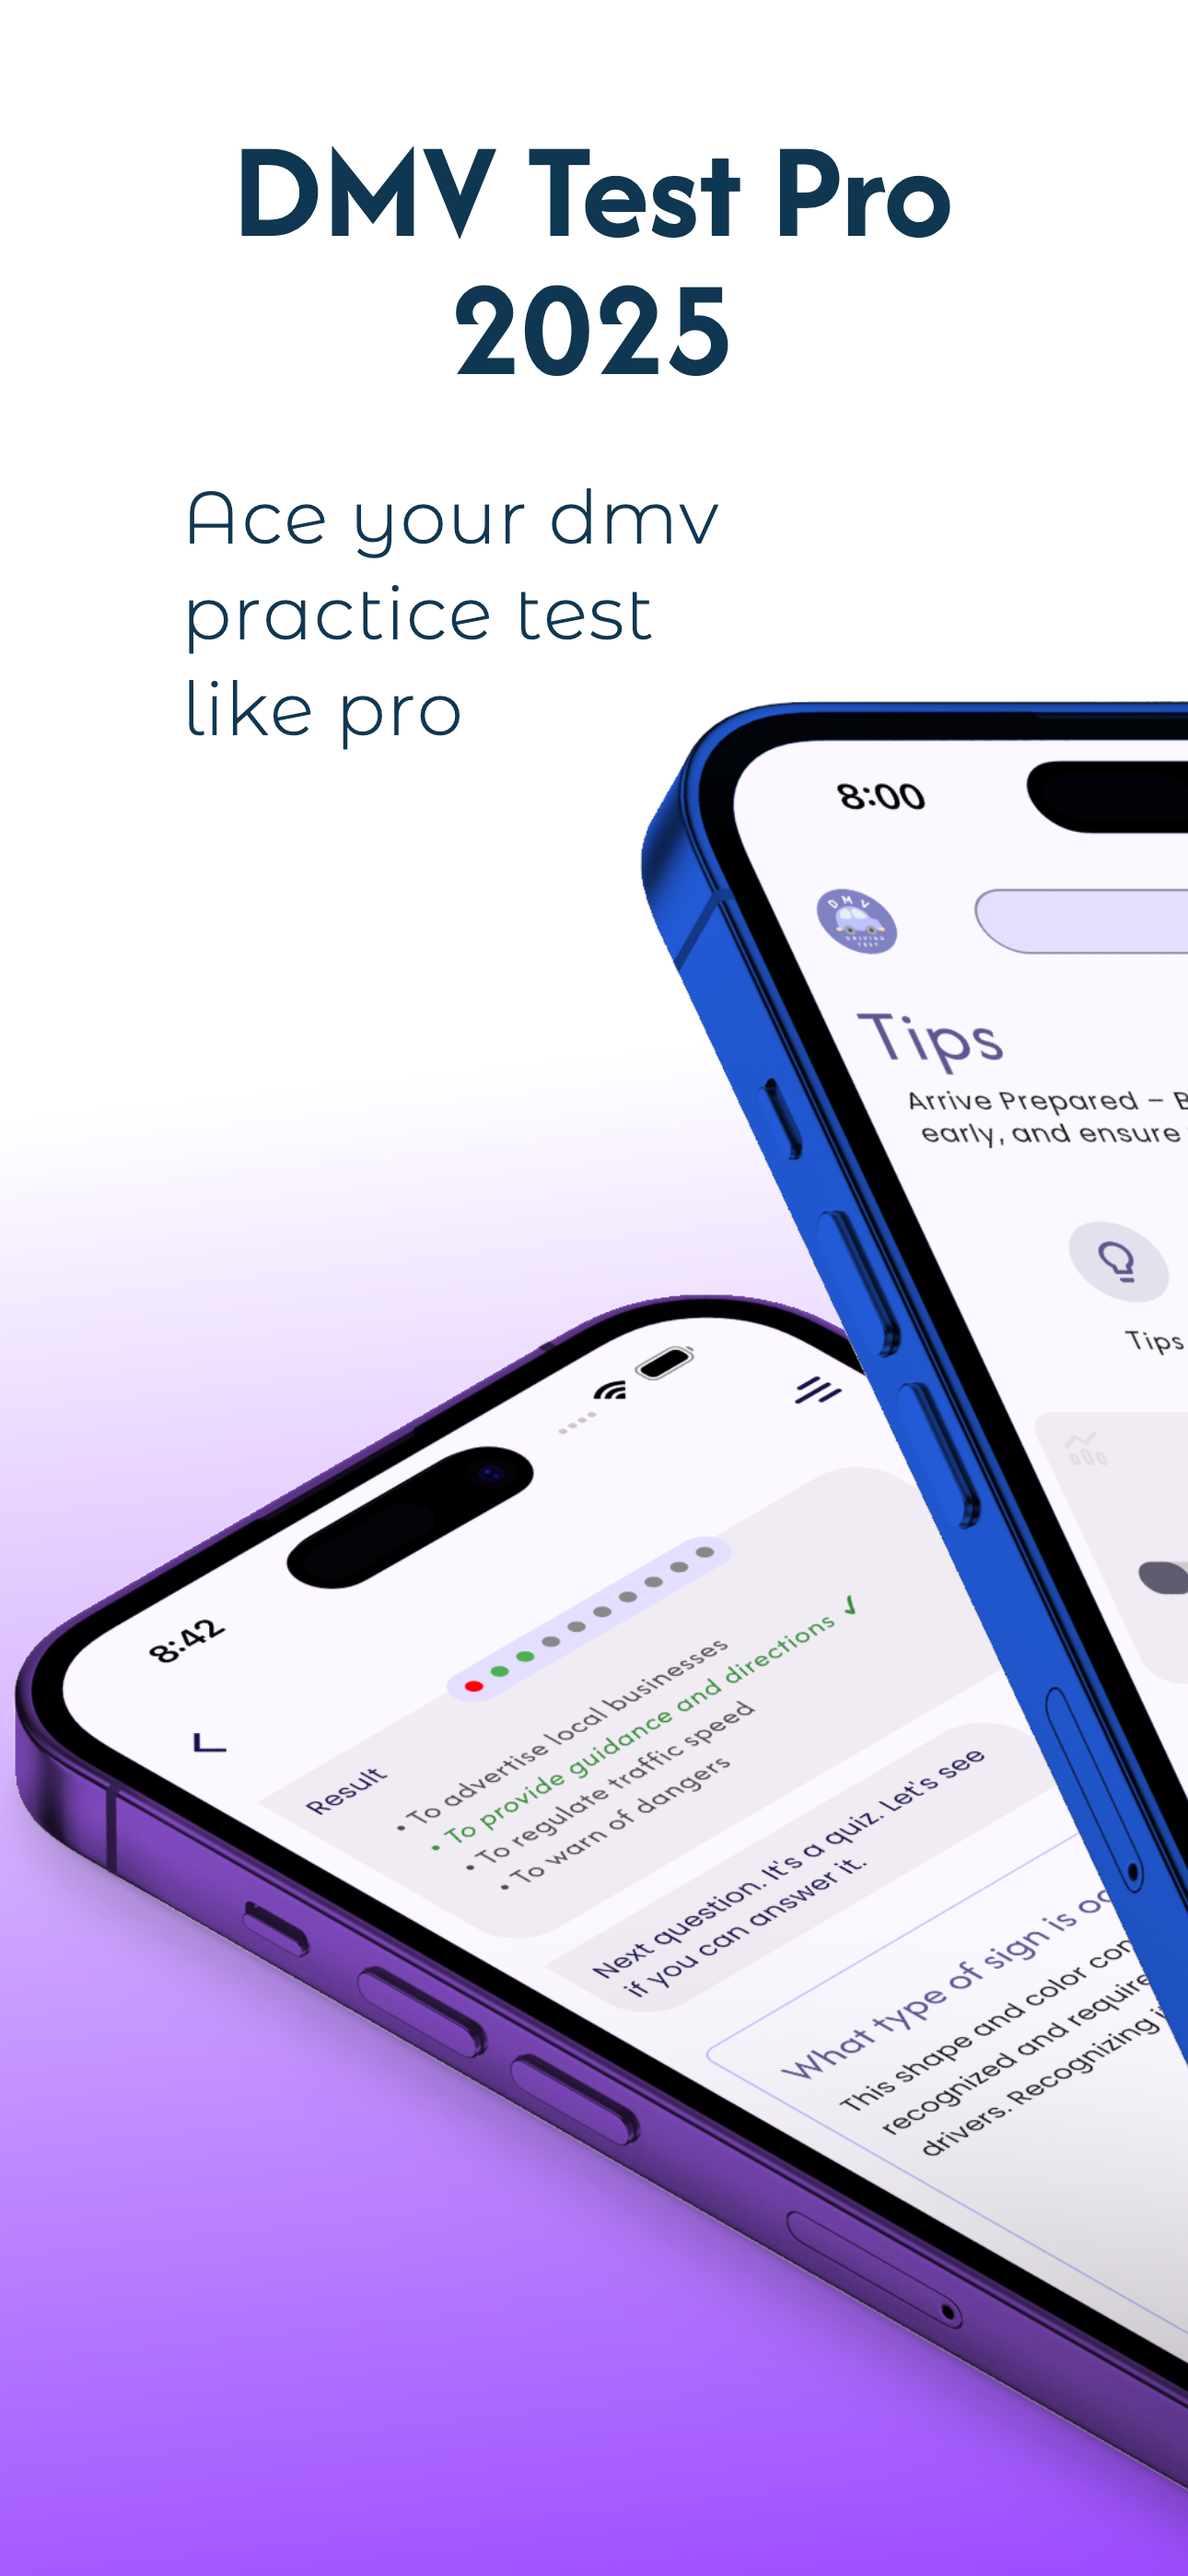
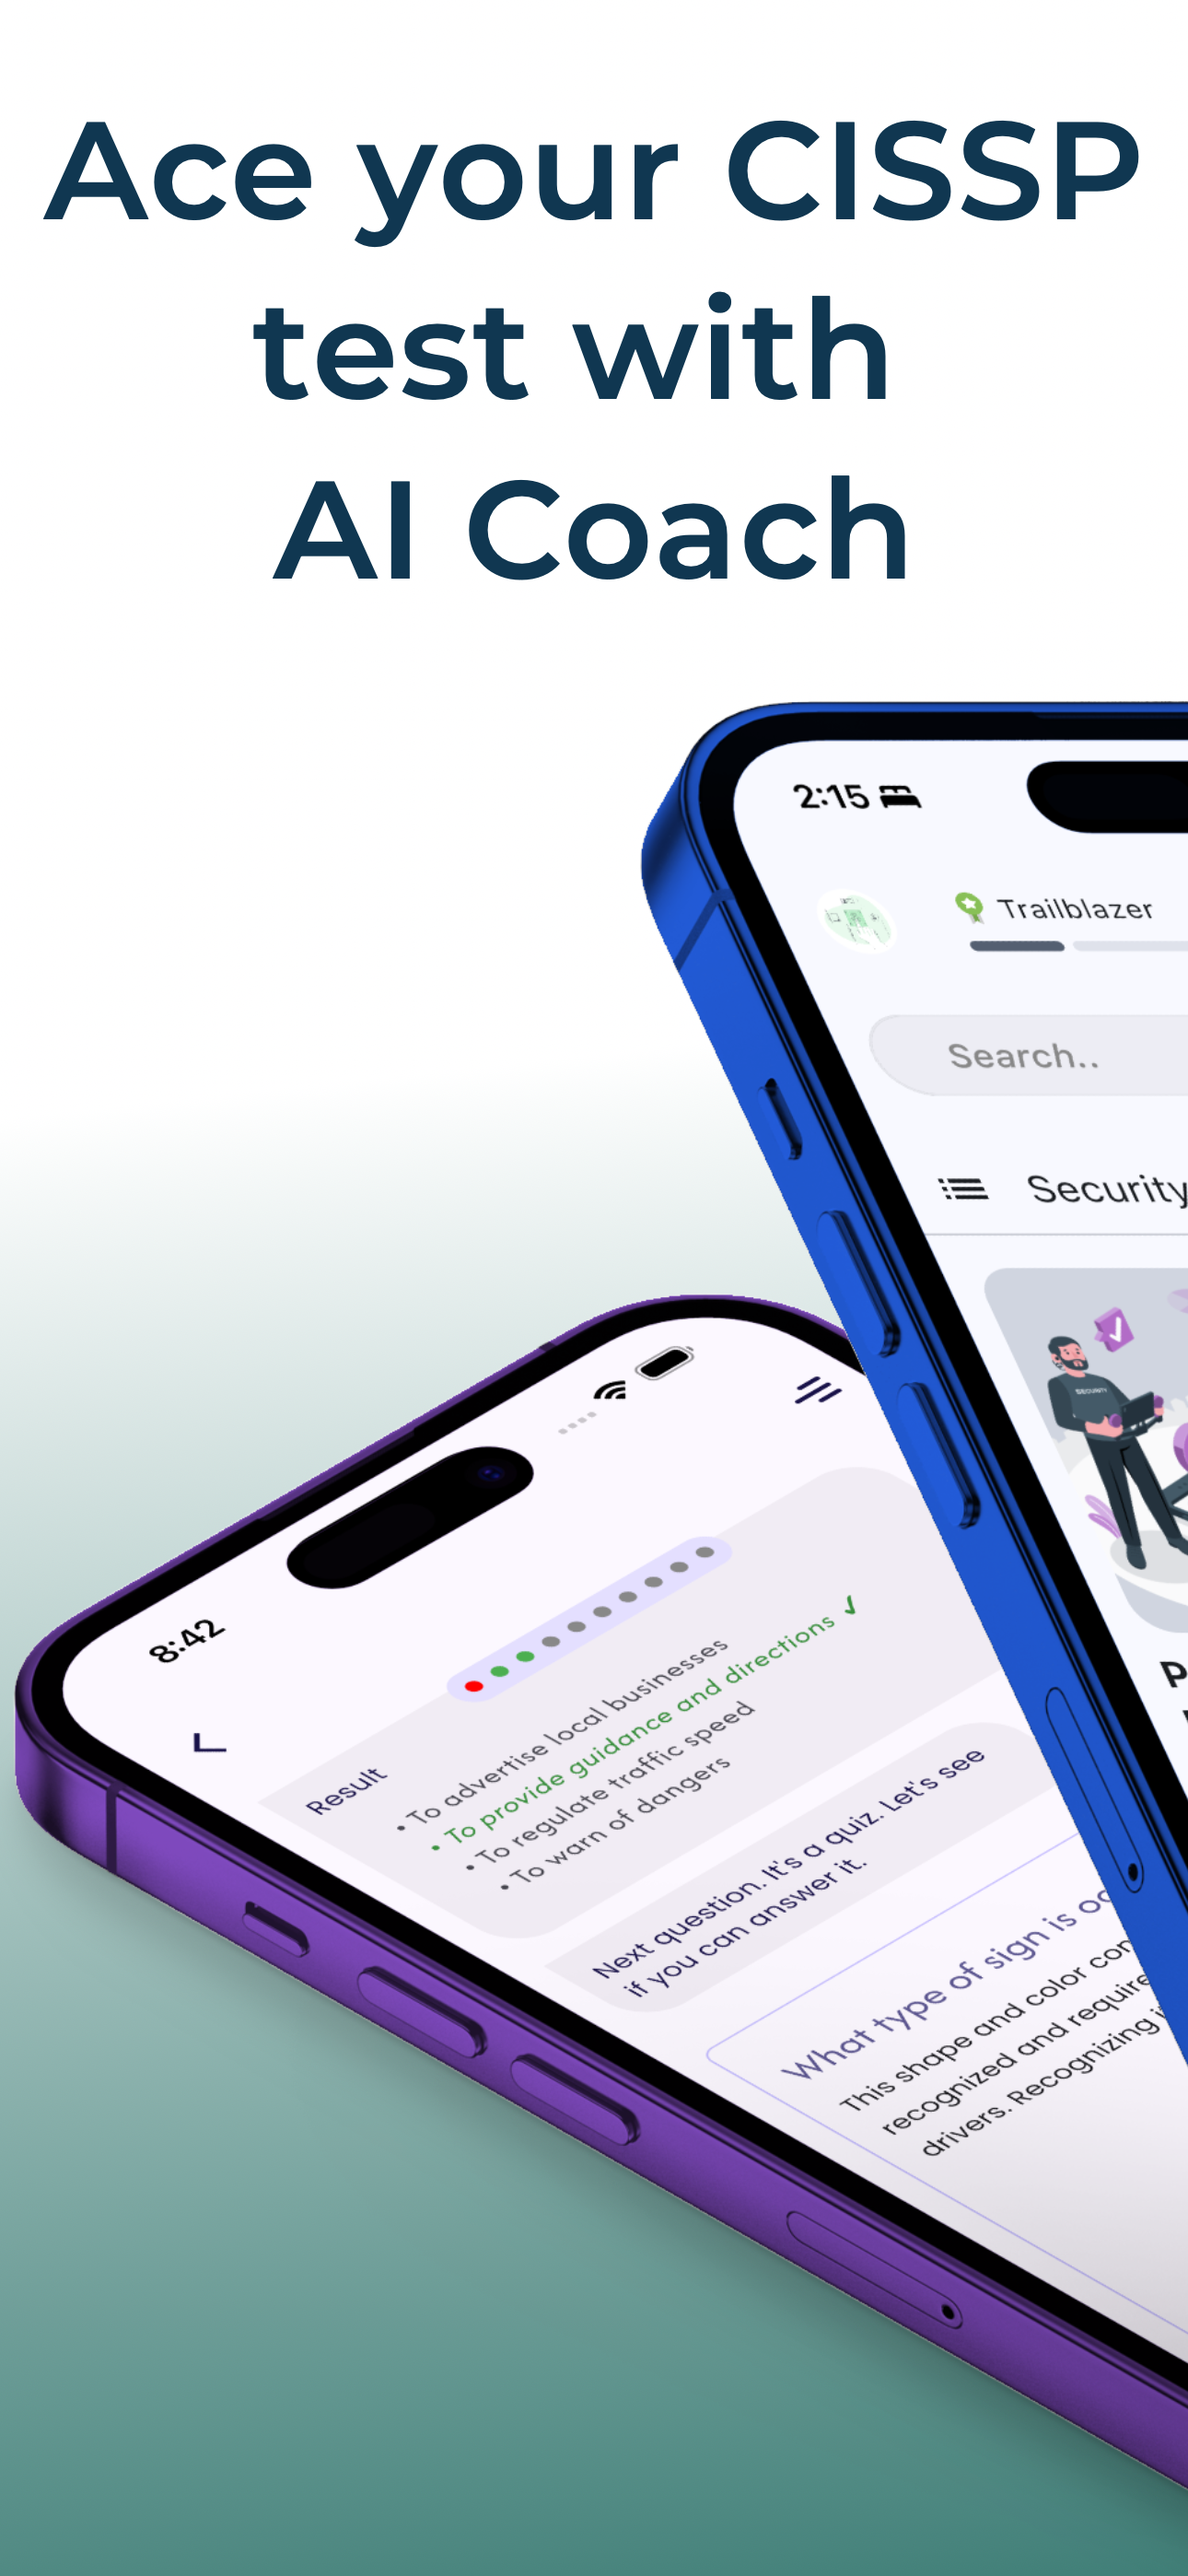
Initial commit

diff --git a/index.html b/index.html
@@ -4,7 +4,7 @@
   <meta charset="UTF-8">
   <link rel="icon" href="favicon.ico" type="image/x-icon">
   <meta name="viewport" content="width=device-width, initial-scale=1.0">
-  <title>DMV Driving Test Pro</title>
+  <title>CISSP Secure Test Prep 2025</title>
   <link rel="preconnect" href="https://fonts.googleapis.com">
   <link rel="preconnect" href="https://fonts.gstatic.com" crossorigin>
   <link
@@ -248,15 +248,15 @@
 </head>
 <body>
 <section class="hero">
-  <img src="img/driving_test_logo.png" alt="DMV Test Pro Logo" class="logo">
+  <img src="img/cissp_logo.png" alt="CISSP Logo" class="logo">
   <h1 class="gradient-text" style="font-size: 3.5rem; margin-bottom: 1.5rem;">
-    Master Driving Exam,<br>Conquer the DMV Test
+    Conquer the CISSP Test
   </h1>
   <p style="font-size: 1.25rem; margin-bottom: 3rem; opacity: 0.9;">
     Interactive learning platform with AI-powered practice exams and real-time analytics
   </p>
   <div class="store-badges">
-    <a href="https://apps.apple.com/app/app/dmv-test-pro-2025/id6742561500" target="_blank">
+    <a href="https://apps.apple.com/us/app/cissp-secure-test-prep-2025/id6743873719" target="_blank">
       <img src="https://developer.apple.com/app-store/marketing/guidelines/images/badge-download-on-the-app-store.svg"
            alt="Download on the App Store">
     </a>
@@ -305,7 +305,7 @@
   <h2 style="font-size: 2.5rem; margin-bottom: 1.5rem;">Ready to Ace Your Exam?</h2>
   <p style="margin-bottom: 3rem; opacity: 0.9;">Join 15,000+ successful permit holders</p>
   <div class="store-badges">
-    <a href="https://apps.apple.com/us/app/dmv-test-pro-2025/id6742561500" target="_blank">
+    <a href="https://apps.apple.com/us/app/cissp-secure-test-prep-2025/id6743873719" target="_blank">
       <img src="https://developer.apple.com/app-store/marketing/guidelines/images/badge-download-on-the-app-store.svg"
            alt="Download on the App Store">
     </a>
@@ -337,11 +337,11 @@
 <section class="contact-section">
   <h2>About</h2>
   <div class="contact-info">
-    <a href="https://sayem.dev/blog/articles/privacy-policy-for-dmv-test-pro" target="_blank">
+    <a href="https://sayem.dev/blog/articles/privacy-policy-for-cissp-secure-test-prep-2025" target="_blank">
       <i class="fa-solid fa-shield"></i>
       Privacy Policy
     </a>
-    <a href="https://sayem.dev/blog/articles/terms-of-use-for-dmv-test-pro" target="_blank">
+    <a href="https://sayem.dev/blog/articles/terms-of-use-for-cissp-secure-test-prep-2025" target="_blank">
       <i class="fa-solid fa-file-contract"></i>
       Terms of Use
     </a>
